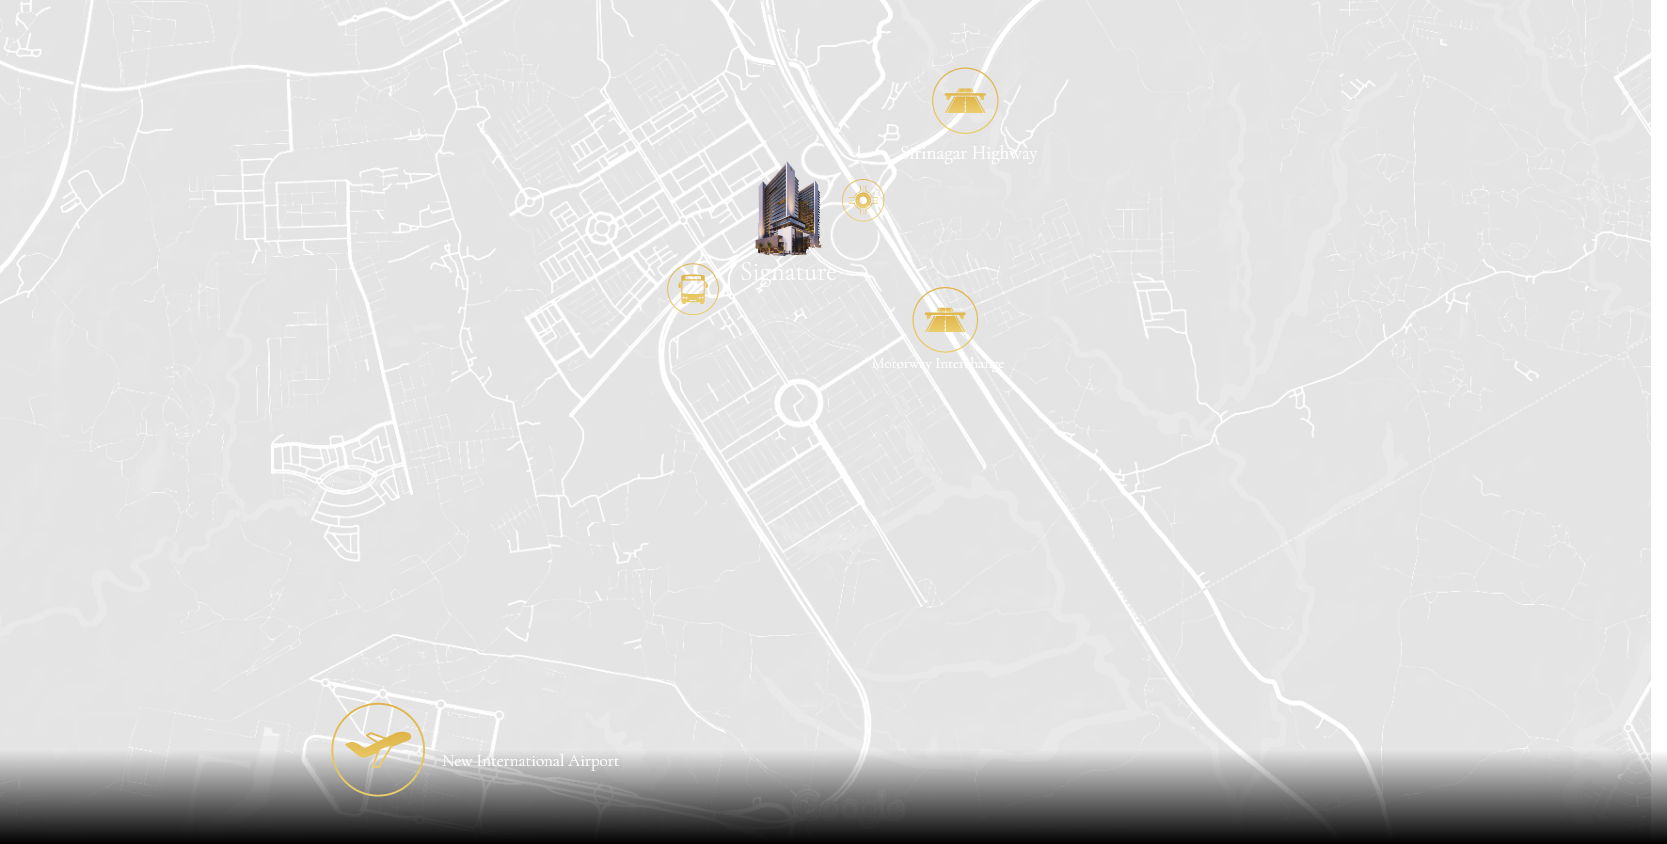
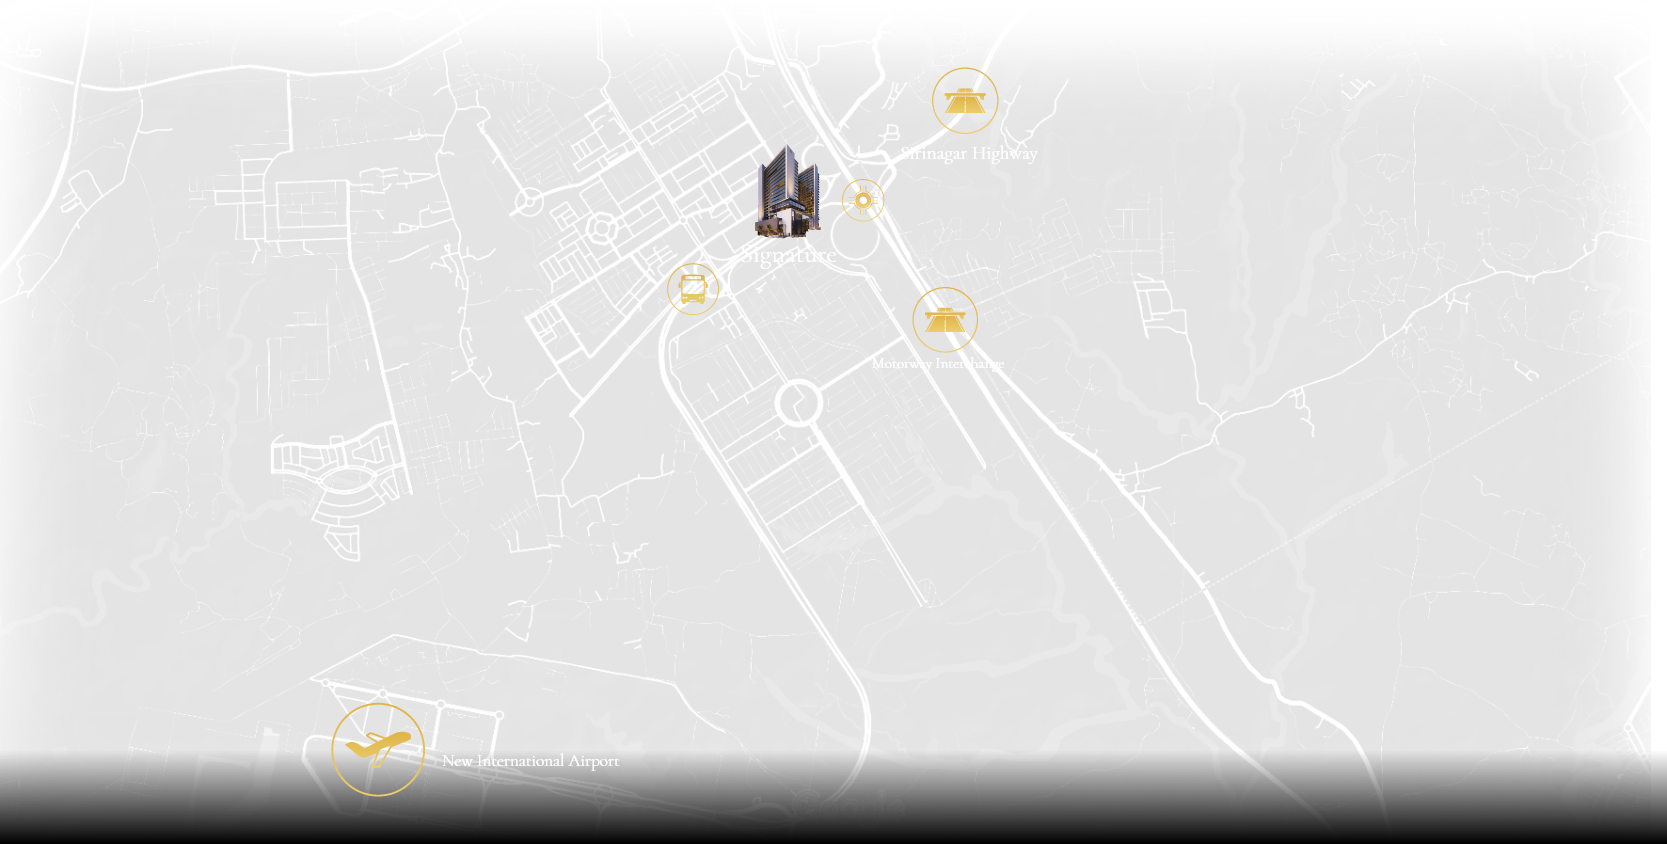
commit

Changed region(s): [[0.0, 0.0, 0.9982, 0.0616], [0.4367, 0.1848, 0.4991, 0.3081]]

diff --git a/src/Styles/global.scss b/src/Styles/global.scss
@@ -2106,6 +2106,10 @@ a {
   margin-right: -50px;
 }
 @media (max-width: 1360px) {
+  .map__container__img {
+    height: 800px !important;
+  }
+
   .welcome__container__img {
     margin-top: 0em;
     height: 100% !important;
